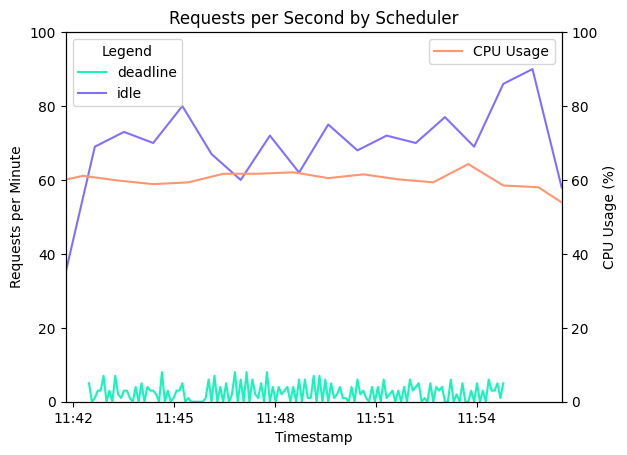
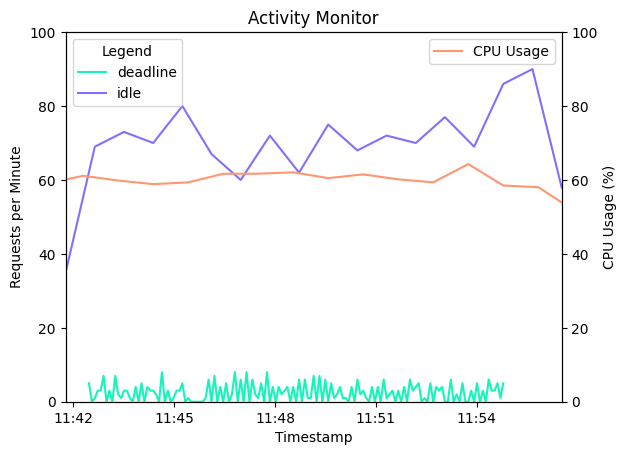
feat(profaastinate): evaluation add comparision chart

Changed region(s): [[0.2727, 0.0308, 0.7273, 0.0615]]

diff --git a/profaastinate/evaluation/data-analysis/data-analyser.py b/profaastinate/evaluation/data-analysis/data-analyser.py
@@ -331,10 +331,10 @@ log_counts = get_scheduler_count(async_dataframe)
 
 chart_factory.create_chart('pie', log_counts, 'Log Type Distribution', 'async/pie_chart.png')
 chart_factory.create_chart('histogram', log_counts, 'Log Type Distribution', 'async/histogram_chart.png')
-chart_factory.create_chart('line', async_dataframe, 'Requests per Second by Scheduler', 'async/line_chart.png')
+chart_factory.create_chart('line', async_dataframe, 'Activity Monitor', 'async/line_chart.png')
 
 chart_factory.create_timeline_chart(async_dataframe, 'Phase Durations by Scheduler', 'async/timeline_chart')
-chart_factory.create_line_chart(normal_dataframe, 'Requests per Second', 'normal/line_chart.png', include_scheduler=False)
+chart_factory.create_line_chart(normal_dataframe, 'Activity', 'normal/line_chart.png', include_scheduler=False)
 chart_factory.create_line_chart_comparison(async_dataframe, normal_dataframe, 'Requests per Second', 'comparison/line_chart.png')
 
 chart_factory.create_cpu_histogram(async_dataframe, normal_dataframe, 'comparison/cpu_histogram.png')
